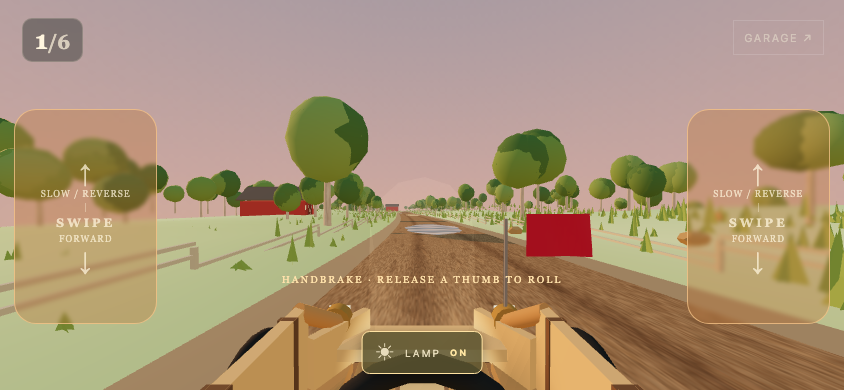
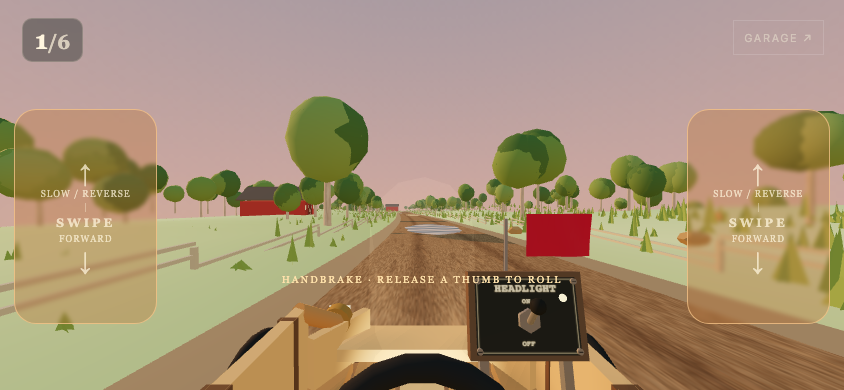
Update Site source

Changed region(s): [[0.4005, 0.6154, 0.7085, 1.0]]

diff --git a/src/main.js b/src/main.js
@@ -24,6 +24,7 @@ import { AI_DRIVERS, aiInput } from "./ai.js";
 import { SnapshotBuffer } from "./replication.js";
 import { createVehicleThumbnails } from "./thumbnails.js";
 import { disposeVehicle } from "./resources.js";
+import { addDashboardSwitch, updateDashboardSwitch } from "./dashboard-switch.js";
 
 document.querySelector("#app").innerHTML = `<canvas class="game"></canvas>
 <section class="screen" id="home"><div class="content"><div class="eyebrow">The countryside is calling · Est. 1978</div><div class="rule"></div><h1>Hollow<br><i>Run.</i></h1><p>Six drivers. Two miles. Nothing but gravity.<br>A homemade soapbox derby down the old farm road.</p><div class="actions"><button class="primary" id="garage-btn">Take the wheel ↗</button><button id="family-btn">Family race</button></div><div class="help">BUILT BY HAND. DRIVEN BY FEEL.</div></div><div class="top-mark">SOAPBOX DERBY / 01</div><div class="footer">3218 METRES OF DIRT &nbsp; / &nbsp; ONE WAY DOWN</div></section>
@@ -33,7 +34,7 @@ document.querySelector("#app").innerHTML = `<canvas class="game"></canvas>
 <div class="swipe-zone swipe-left" data-side="left" aria-label="Left thumb swipe area"><span class="swipe-arrow">↑</span><span>SLOW / REVERSE</span><i></i><strong>SWIPE</strong><span>FORWARD</span><span class="swipe-arrow">↓</span></div>
 <div class="swipe-zone swipe-right" data-side="right" aria-label="Right thumb swipe area"><span class="swipe-arrow">↑</span><span>SLOW / REVERSE</span><i></i><strong>SWIPE</strong><span>FORWARD</span><span class="swipe-arrow">↓</span></div>
 <div class="brake-feedback">HANDBRAKE · RELEASE A THUMB TO ROLL</div>
-<button id="dashboard-light" aria-label="Headlight" aria-pressed="false"><span>☀</span> LAMP <b>OFF</b></button>
+<button id="dashboard-light" aria-label="Toggle physical dashboard headlight switch" aria-pressed="false" title="Headlight switch (L)"></button>
 </div>
 <button class="race-menu hidden" id="pause">Garage ↗</button>
 <section id="lobby" class="modal hidden"><div class="eyebrow">Offline family race · up to six</div><h2>Meet at the starting line.</h2><p>Install once while online. Then connect every device to the same Wi-Fi or a supported Personal Hotspot. No signaling server is used. Hotspot support and local peer connections depend on your devices and network.</p><div class="actions"><button id="host">Host family race</button><button id="scan">Scan connection QR</button><button id="close-lobby">Close</button></div><div class="qr-row"><div class="qr-placeholder" id="qr-placeholder">Your connection QR will appear here.<br>Host a race or scan an invitation.</div><canvas id="qr" class="hidden"></canvas><div><p id="network-status">Host displays an offer. Guest scans it and shows an answer. Host scans the answer. Repeat for each guest.</p><video id="scanner" playsinline muted class="hidden"></video></div></div><textarea id="code" placeholder="Connection code — copy/paste fallback" aria-label="Connection code"></textarea><div class="actions"><button id="accept">Use connection code</button><button id="copy">Copy code</button><button id="family-pass">Create demo family pass</button><button id="race-room">Start family race</button></div><p id="offline-status" class="help">Offline cache is preparing. Keep this page open while online.</p><p id="pass-status" class="help">Family pass is a signed six-seat local demo. It does not verify a purchase.</p></section>
@@ -138,6 +139,7 @@ function choose(i) {
   selected = i;
   if (car) disposeVehicle(car);
   car = createVehicle(THREE, i, true);
+  addDashboardSwitch(THREE, car);
   scene.add(car);
   const display = roadAt(18);
   car.position.set(display.x - 1, display.y + 0.42, display.z);
@@ -317,7 +319,7 @@ const guide = document.createElement("section");
 guide.id = "drive-guide";
 guide.className = "modal hidden";
 guide.innerHTML =
-  '<div class="eyebrow">Before the starting bell</div><h2>Both hands on the wheel.</h2><p>Hold your device in landscape, centered and comfortable. Enable tilt, then turn it like a steering wheel. Swipe DOWN in either translucent edge zone for a 10-second forward push. Swipe UP to slow down, then gently reverse. Rest both thumbs still in the zones to hold the handbrake; release a thumb to roll. After a push runs out, the car settles into a slow downhill coast. Use the dashboard LAMP switch for the headlight.</p><div class="actions"><button id="guide-tilt">Enable tilt while centered</button><button class="primary" id="hands-ready">Hands ready — roll out</button></div>';
+  '<div class="eyebrow">Before the starting bell</div><h2>Both hands on the wheel.</h2><p>Hold your device in landscape, centered and comfortable. Enable tilt, then turn it like a steering wheel. Swipe DOWN in either translucent edge zone for a 10-second forward push. A faster swipe accelerates harder and reaches a higher speed. Swipe UP to slow down, then gently reverse. Rest both thumbs still in the zones to hold the handbrake; release a thumb to roll. After a push runs out, the car settles into a slow downhill coast. Use the dashboard LAMP switch for the headlight.</p><div class="actions"><button id="guide-tilt">Enable tilt while centered</button><button class="primary" id="hands-ready">Hands ready — roll out</button></div>';
 document.body.append(guide);
 const tiltPanel = () =>
   `<div class="tilt-feedback hidden"><svg class="tilt-dial" viewBox="0 0 64 64" aria-hidden="true"><circle cx="32" cy="32" r="26"/><circle cx="32" cy="32" r="6"/><path d="M8 22 27 30M56 22 37 30M32 38v20"/></svg><div><strong class="tilt-feedback-title" role="status" aria-live="polite"></strong><p class="tilt-feedback-copy"></p><button class="tilt-recenter hidden" type="button">Recenter wheel</button><a class="tilt-safari-link hidden" href="https://hollow-run-soapbox-derby.andycswu.chatgpt.site/" target="_blank" rel="noopener">Game link to open in Safari ↗</a></div></div>`;
@@ -451,6 +453,7 @@ net.onInput = (arr, id) => {
       reverse: !!arr[5],
       swipeDirection: arr[6] || 0,
       touchDrive: !!arr[7],
+      swipeStrength: arr[8] ?? 0.5,
     });
   }
 };
@@ -651,7 +654,7 @@ function animate(now) {
   $("#race-controls").classList.toggle("hidden", !raceUI);
   $("#race-controls").classList.toggle("braking", input.brake);
   $("#dashboard-light").setAttribute("aria-pressed", String(input.headlight));
-  $("#dashboard-light b").textContent = input.headlight ? "ON" : "OFF";
+
   for (const zone of document.querySelectorAll(".swipe-zone")) {
     zone.classList.toggle("touching", [...controls.pointers.values()].some(p => p.side === (zone.dataset.side === "left" ? "leftPaddle" : "rightPaddle")));
   }
@@ -730,6 +733,7 @@ function animate(now) {
       new THREE.Vector3(input.steer * 0.3, 1.45, -25),
     );
     camera.lookAt(target);
+    updateDashboardSwitch(THREE, car, camera, $("#dashboard-light"), input.headlight, innerWidth, innerHeight);
     const strokes = [input.leftPaddle, input.rightPaddle];
     strokes.forEach((on, i) => {
       if (on && !lastStroke[i]) audio.stroke?.(i ? 1 : -1);
@@ -786,6 +790,7 @@ function animate(now) {
           +input.reverse,
           input.swipeDirection,
           +input.touchDrive,
+          input.swipeStrength,
         ]);
       else if (net.role === "host")
         net.broadcast([

diff --git a/src/dashboard-switch.js b/src/dashboard-switch.js
@@ -1,0 +1,56 @@
+// A salvaged toggle and mounting board, attached to the player's actual car.
+export function addDashboardSwitch(THREE, car) {
+  const panel = new THREE.Group();
+  panel.position.set(0.40, 1.30, -0.85);
+  panel.rotation.x = -0.22;
+  car.add(panel);
+  const wood = new THREE.MeshStandardMaterial({ color:0x645039, roughness:0.95 });
+  const metal = new THREE.MeshStandardMaterial({ color:0x96978a, metalness:0.8, roughness:0.4 });
+  const black = new THREE.MeshStandardMaterial({ color:0x20241e, roughness:0.8 });
+  const add=(geometry, material, x,y,z, parent=panel)=>{
+    const mesh=new THREE.Mesh(geometry,material);
+    mesh.position.set(x,y,z); mesh.castShadow=true; parent.add(mesh); return mesh;
+  };
+  add(new THREE.BoxGeometry(0.44,0.32,0.07),wood,0,0,0);
+  // Brackets connect the little dashboard to the chassis, including open carts.
+  add(new THREE.BoxGeometry(0.035,0.44,0.04),metal,-0.16,-0.30,-0.03);
+  add(new THREE.BoxGeometry(0.035,0.44,0.04),metal,0.16,-0.30,-0.03);
+  const label=document.createElement('canvas'); label.width=512; label.height=384;
+  const ctx=label.getContext('2d');
+  ctx.fillStyle='#292d25'; ctx.fillRect(0,0,512,384);
+  ctx.strokeStyle='#9d987b';ctx.lineWidth=5;ctx.strokeRect(10,10,492,364);
+  ctx.fillStyle='#e8dfb7';ctx.textAlign='center';ctx.font='bold 58px monospace';ctx.fillText('HEADLIGHT',256,75);
+  ctx.font='bold 35px monospace';ctx.fillText('ON',256,133);ctx.fillText('OFF',256,340);
+  const texture=new THREE.CanvasTexture(label);texture.colorSpace=THREE.SRGBColorSpace;
+  add(new THREE.PlaneGeometry(0.39,0.28),new THREE.MeshStandardMaterial({map:texture,roughness:0.85}),0,0,0.036);
+  for(const x of [-0.185,0.185])for(const y of [-0.125,0.125]){
+    const screw=add(new THREE.CylinderGeometry(0.012,0.012,0.012,8),metal,x,y,0.043);
+    screw.rotation.x=Math.PI/2;
+    add(new THREE.BoxGeometry(0.015,0.002,0.002),black,x,y,0.05);
+  }
+  const nut=add(new THREE.CylinderGeometry(0.043,0.043,0.021,6),metal,0,-0.015,0.055);
+  nut.rotation.x=Math.PI/2;
+  const toggle=new THREE.Group(); toggle.position.set(0,-0.015,0.068);panel.add(toggle);
+  const stem=add(new THREE.CylinderGeometry(0.013,0.013,0.105,10),metal,0,0,0.05,toggle);
+  stem.rotation.x=Math.PI/2;
+  add(new THREE.SphereGeometry(0.028,12,8),black,0,0,0.108,toggle);
+  const indicatorMaterial=new THREE.MeshStandardMaterial({color:0x3f4632,emissive:0xffd777,emissiveIntensity:0,roughness:0.35});
+  add(new THREE.SphereGeometry(0.015,10,8),indicatorMaterial,0.135,0.065,0.052);
+  car.userData.lightSwitch={panel,toggle,indicatorMaterial};
+  return panel;
+}
+
+export function updateDashboardSwitch(THREE, car, camera, button, on, width, height) {
+  const control=car.userData.lightSwitch;
+  if(!control)return;
+  control.toggle.rotation.x=on ? -0.65 : 0.65;
+  control.indicatorMaterial.emissiveIntensity=on ? 1.8 : 0;
+  car.updateMatrixWorld(true);camera.updateMatrixWorld(true);
+  const points=[[-0.22,-0.16],[0.22,0.16],[-0.22,0.16],[0.22,-0.16]].map(([x,y])=>control.panel.localToWorld(new THREE.Vector3(x,y,0.06)).project(camera));
+  const xs=points.map(p=>(p.x+1)*width/2), ys=points.map(p=>(1-p.y)*height/2);
+  const w=Math.max(44,Math.max(...xs)-Math.min(...xs));
+  const h=Math.max(44,Math.max(...ys)-Math.min(...ys));
+  button.style.left=`${(Math.max(...xs)+Math.min(...xs)-w)/2}px`;
+  button.style.top=`${(Math.max(...ys)+Math.min(...ys)-h)/2}px`;
+  button.style.width=`${w}px`;button.style.height=`${h}px`;
+}

diff --git a/src/style.css b/src/style.css
@@ -405,9 +405,7 @@ button:disabled {
 .braking .swipe-zone { background:#bc76395c; border-color:#f9c88cbb; }
 .brake-feedback { position:absolute; bottom:27%; width:100%; text-align:center; color:#ffe2ab; font-size:10px; letter-spacing:2px; opacity:0; }
 .braking .brake-feedback { opacity:1; }
-#dashboard-light { position:absolute; bottom:max(16px, env(safe-area-inset-bottom)); left:50%; transform:translateX(-50%); pointer-events:auto; display:flex; align-items:center; gap:9px; background:#282c26cc; border:1px solid #c3b58c77; border-radius:8px; padding:11px 16px; color:#e7dcbc; font-size:10px; letter-spacing:2px; box-shadow:0 3px 12px #0005; }
-#dashboard-light span { font-size:20px; }
-#dashboard-light b { font-size:9px; color:#b6b8a2; }
-#dashboard-light[aria-pressed="true"] { background:#5b532fd9; border-color:#ffe2a2; }
-#dashboard-light[aria-pressed="true"] b { color:#ffe6a3; }
-@media(max-height:450px) { .swipe-zone { top:28%; bottom:17%; gap:4px; border-radius:22px; } .swipe-zone i { height:9px; } #dashboard-light { padding:7px 13px; } #race-rank { font-size:26px; padding:6px 12px; } }
+#dashboard-light { position:absolute; pointer-events:auto; background:transparent; border:0; padding:0; margin:0; box-shadow:none; border-radius:5px; transform:none; cursor:pointer; touch-action:manipulation; }
+#dashboard-light:hover, #dashboard-light:active { background:transparent; }
+#dashboard-light:focus-visible { outline:2px solid #ffe6a3; outline-offset:3px; }
+@media(max-height:450px) { .swipe-zone { top:28%; bottom:17%; gap:4px; border-radius:22px; } .swipe-zone i { height:9px; } #race-rank { font-size:26px; padding:6px 12px; } }

diff --git a/src/physics.js b/src/physics.js
@@ -67,6 +67,7 @@ export function createRacer(stats = {}, index = 0) {
     _paddleCooldown: 0,
     _swipeHeld: 0,
     _boostTime: 0,
+    _boostStrength: 0.5,
     _driveDirection: 0,
     _suspension: null,
     _sideX: 1,
@@ -167,10 +168,14 @@ function integrate(racer, input, dt, roadAt, surfaceAt) {
   );
 
   const swipe = Math.sign(finite(input.swipeDirection, 0));
+  const strength = clamp(finite(input.swipeStrength, 0.5), 0, 1);
   if (swipe && swipe !== racer._swipeHeld) {
+    racer._boostStrength = strength;
     racer._driveDirection = swipe;
     racer._boostTime = 10;
   }
+  if (swipe > 0 && racer._driveDirection > 0)
+    racer._boostStrength = Math.max(racer._boostStrength, strength);
   racer._swipeHeld = swipe;
   racer._boostTime = Math.max(0, racer._boostTime - dt);
   if (input.brake) {
@@ -211,10 +216,10 @@ function integrate(racer, input, dt, roadAt, surfaceAt) {
   // Touch strokes bank ten seconds of assistance; terrain still adds drag.
   // Once spent, ease back toward a slow downhill coast rather than stopping.
   const target = racer._boostTime > 0
-    ? (racer._driveDirection > 0 ? Math.min(15, topSpeed) : -1.6)
+    ? (racer._driveDirection > 0 ? Math.min(10 + racer._boostStrength * 12, topSpeed) : -1.6)
     : 3;
   const assist = input.touchDrive && !input.brake
-    ? clamp((target - racer.speed) * (racer._boostTime > 0 ? 1.8 : 0.28), -4.5, 5.5)
+    ? clamp((target - racer.speed) * (racer._boostTime > 0 ? 1.8 : 0.28), -4.5, 3 + racer._boostStrength * 7)
     : 0;
   const acceleration = assist +
     9.81 * grade * gravityScale -

diff --git a/src/controls.js b/src/controls.js
@@ -33,6 +33,7 @@ export class Controls {
       reverse: false,
       headlight: false,
       swipeDirection: 0,
+      swipeStrength: 0.5,
       touchDrive: false,
     };
     this.keys = new Set();
@@ -85,6 +86,7 @@ export class Controls {
       this.pointers.set(event.pointerId, {
         x, y, startX: x, startY: y, side,
         lastMoved: performance.now(),
+        strokeAt: performance.now(),
       });
       try {
         (event.currentTarget || this.canvas).setPointerCapture?.(event.pointerId);
@@ -106,6 +108,10 @@ export class Controls {
       pointer.y = y;
       const delta = y - pointer.startY;
       if (Math.abs(delta) > 0.065) {
+        const now = performance.now();
+        const velocity = Math.abs(delta) / Math.max(0.025, (now - pointer.strokeAt) / 1000);
+        this.input.swipeStrength = clamp((velocity - 0.25) / 2.5, 0, 1);
+        pointer.strokeAt = now;
         this.input.swipeDirection = delta > 0 ? 1 : -1;
         this.input.touchDrive = true;
         this.input.reverse = delta < 0;

diff --git a/src/physics.test.js b/src/physics.test.js
@@ -171,3 +171,19 @@ test("upward touch slows before reversing slowly; handbrake holds and cancels bo
   for (let i=0;i<4*60;i++) stepRacer(racer, { touchDrive:true }, 1/60, road, surface);
   assert.ok(racer.speed > 0 && racer.speed < 5);
 });
+
+
+test("fast swipes accelerate harder and sustain higher speed than gentle swipes", () => {
+  const road=s=>({x:0,y:-s*0.06,z:-s,width:8});
+  const surface=()=>({drag:0.13,grip:1});
+  const racers=[createRacer(),createRacer()];
+  for(const [i,r] of racers.entries()) {
+    r.s=100;
+    stepRacer(r,{touchDrive:true,swipeDirection:1,swipeStrength:i},1/60,road,surface);
+    for(let n=0;n<60;n++)stepRacer(r,{touchDrive:true},1/60,road,surface);
+  }
+  assert.ok(racers[1].speed>racers[0].speed+3);
+  for(const r of racers)for(let n=0;n<7*60;n++)stepRacer(r,{touchDrive:true},1/60,road,surface);
+  assert.ok(racers[1].speed>racers[0].speed+7);
+  assert.ok(racers.every(r=>r._boostTime>1));
+});

diff --git a/src/controls.test.js b/src/controls.test.js
@@ -342,3 +342,20 @@ test("typing in form fields or editable content does not trigger game keys", () 
   assert.equal(controls.update().brake, false);
   controls.dispose();
 });
+
+
+test("faster downward swipes produce stronger drive commands", () => {
+  const controls = new Controls(fakeCanvas());
+  const swipe=(id, duration)=>{
+    controls._onPointerDown({pointerId:id,clientX:90,clientY:150});
+    controls.pointers.get(id).strokeAt=performance.now()-duration;
+    controls._onPointerMove({pointerId:id,clientX:90,clientY:230});
+    const strength=controls.input.swipeStrength;
+    controls._onPointerUp({pointerId:id});
+    return strength;
+  };
+  const slow=swipe(1,700),fast=swipe(2,60);
+  assert.ok(fast>slow+0.7);
+  assert.ok(fast<=1 && slow>=0);
+  controls.dispose();
+});

diff --git a/src/network.test.js b/src/network.test.js
@@ -19,3 +19,14 @@ test('family channel carries signed swipe direction and touch drive state', () =
   channel.onmessage({data:new Float32Array([0,0,0,0,1,0]).buffer});
   assert.equal(received.length,4);
 });
+
+
+test('family channel validates and preserves swipe strength', () => {
+  const host=new FamilyNetwork();host.role='host';
+  const received=[];host.onInput=data=>received.push(data);
+  const channel={};host._channel({id:'test',pc:{}},channel);
+  for(const strength of [0,0.5,1])channel.onmessage({data:new Float32Array([0,0,0,0,0,0,1,1,strength]).buffer});
+  assert.deepEqual(received.map(data=>data[8]),[0,0.5,1]);
+  for(const strength of [-0.1,1.1])channel.onmessage({data:new Float32Array([0,0,0,0,0,0,1,1,strength]).buffer});
+  assert.equal(received.length,3);
+});

diff --git a/src/network.js b/src/network.js
@@ -56,10 +56,11 @@ const finiteMessage = (data) =>
   );
 const validInput = (data) =>
   finiteMessage(data) &&
-  (data.length === 6 || data.length === 8) &&
+  ([6, 8, 9].includes(data.length)) &&
   Math.abs(data[0]) <= 1 &&
   data.slice(1, 6).every((n) => n === 0 || n === 1) &&
-  (data.length === 6 || ([-1, 0, 1].includes(data[6]) && [0, 1].includes(data[7])));
+  (data.length === 6 || ([-1, 0, 1].includes(data[6]) && [0, 1].includes(data[7]))) &&
+  (data.length < 9 || (data[8] >= 0 && data[8] <= 1));
 const validSnapshot = (data) =>
   finiteMessage(data) &&
   ((data[0] === 77 &&

diff --git a/README.md b/README.md
@@ -31,3 +31,7 @@ Open the HTTPS game directly in Safari on iPhone or iPad. Tap **Enable iOS tilt 
 ### Thumb drive controls
 
 During a race, swipe down in either translucent edge zone to bank a ten-second forward push. Swipe up to brake progressively and ease into slow reverse. Hold both thumbs still in the zones for the handbrake; release either thumb to coast. When the forward push expires the car eases into a slow downhill roll. The dashboard LAMP switch controls the headlight, and the upper-left counter shows live race position out of six. These touch commands also travel through the authoritative family-race input channel.
+
+### Swipe strength and dashboard toggle
+
+Downward swipe velocity controls acceleration and the speed of the ten-second push: a quick flick drives harder than a gentle stroke. Touch the metal toggle on the wooden dashboard plate to turn the headlights on/off; the lever and amber indicator reflect the current state. Keyboard L also toggles this same physical switch.
